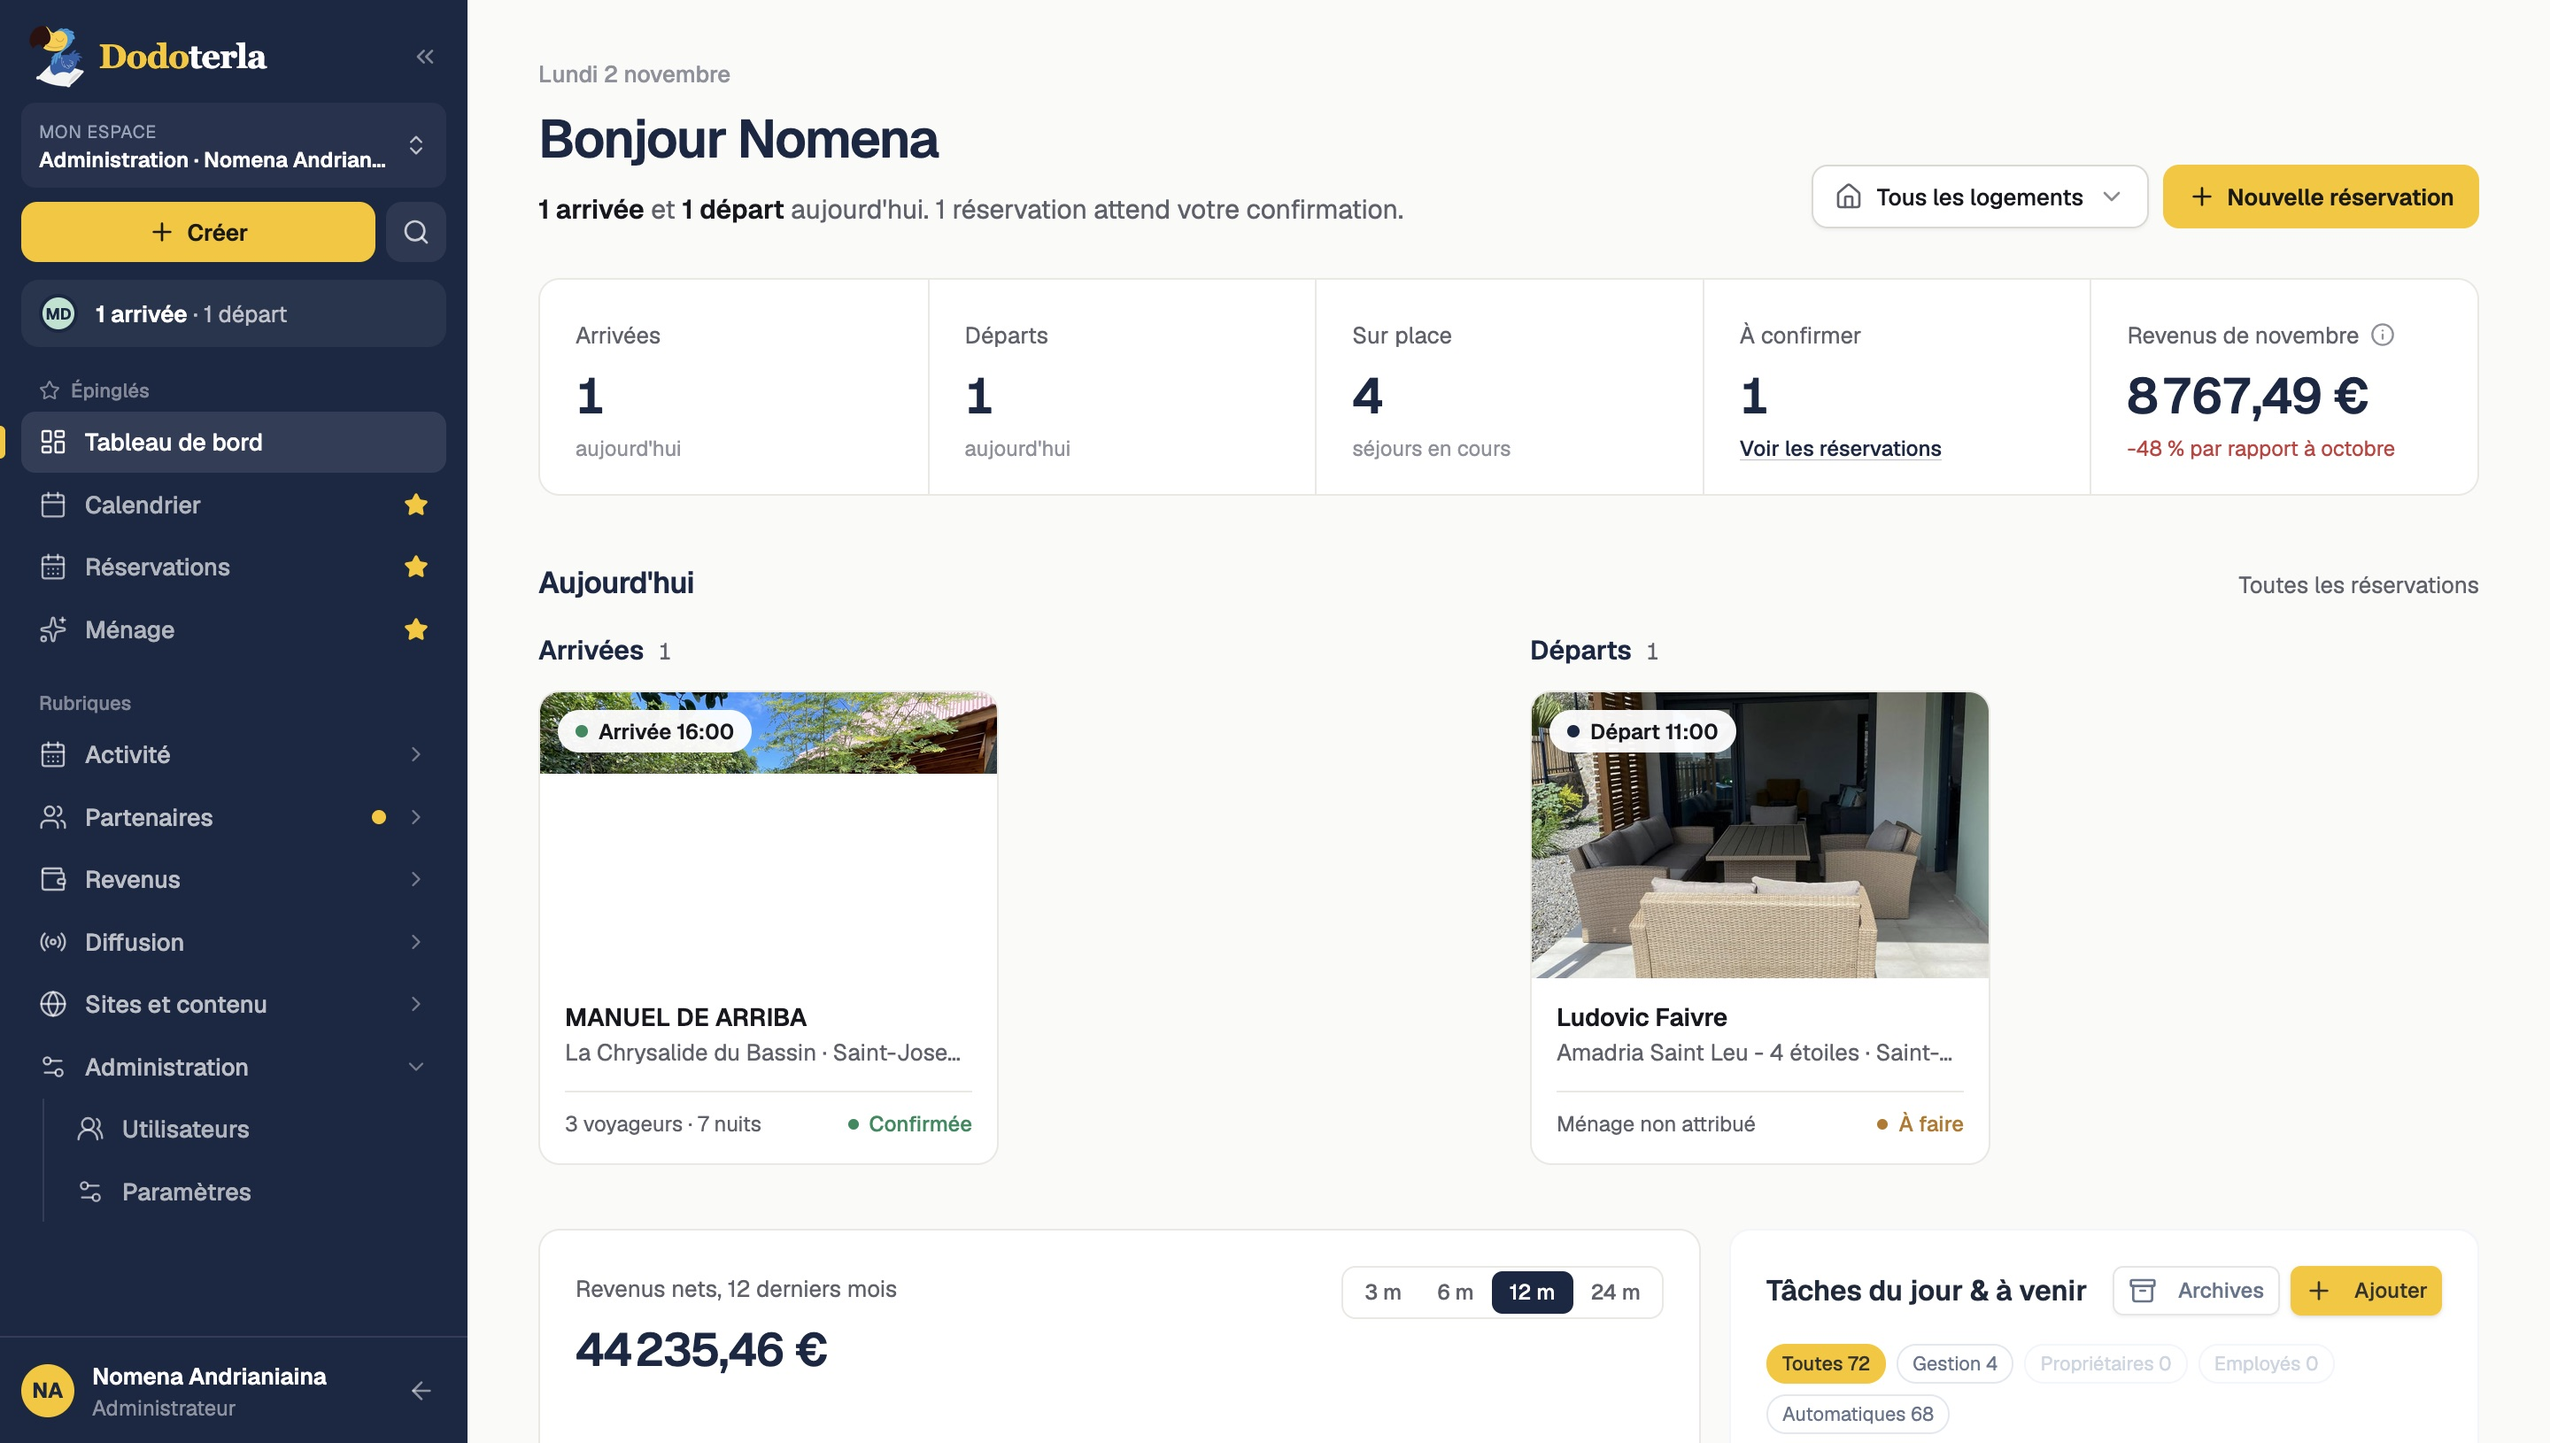
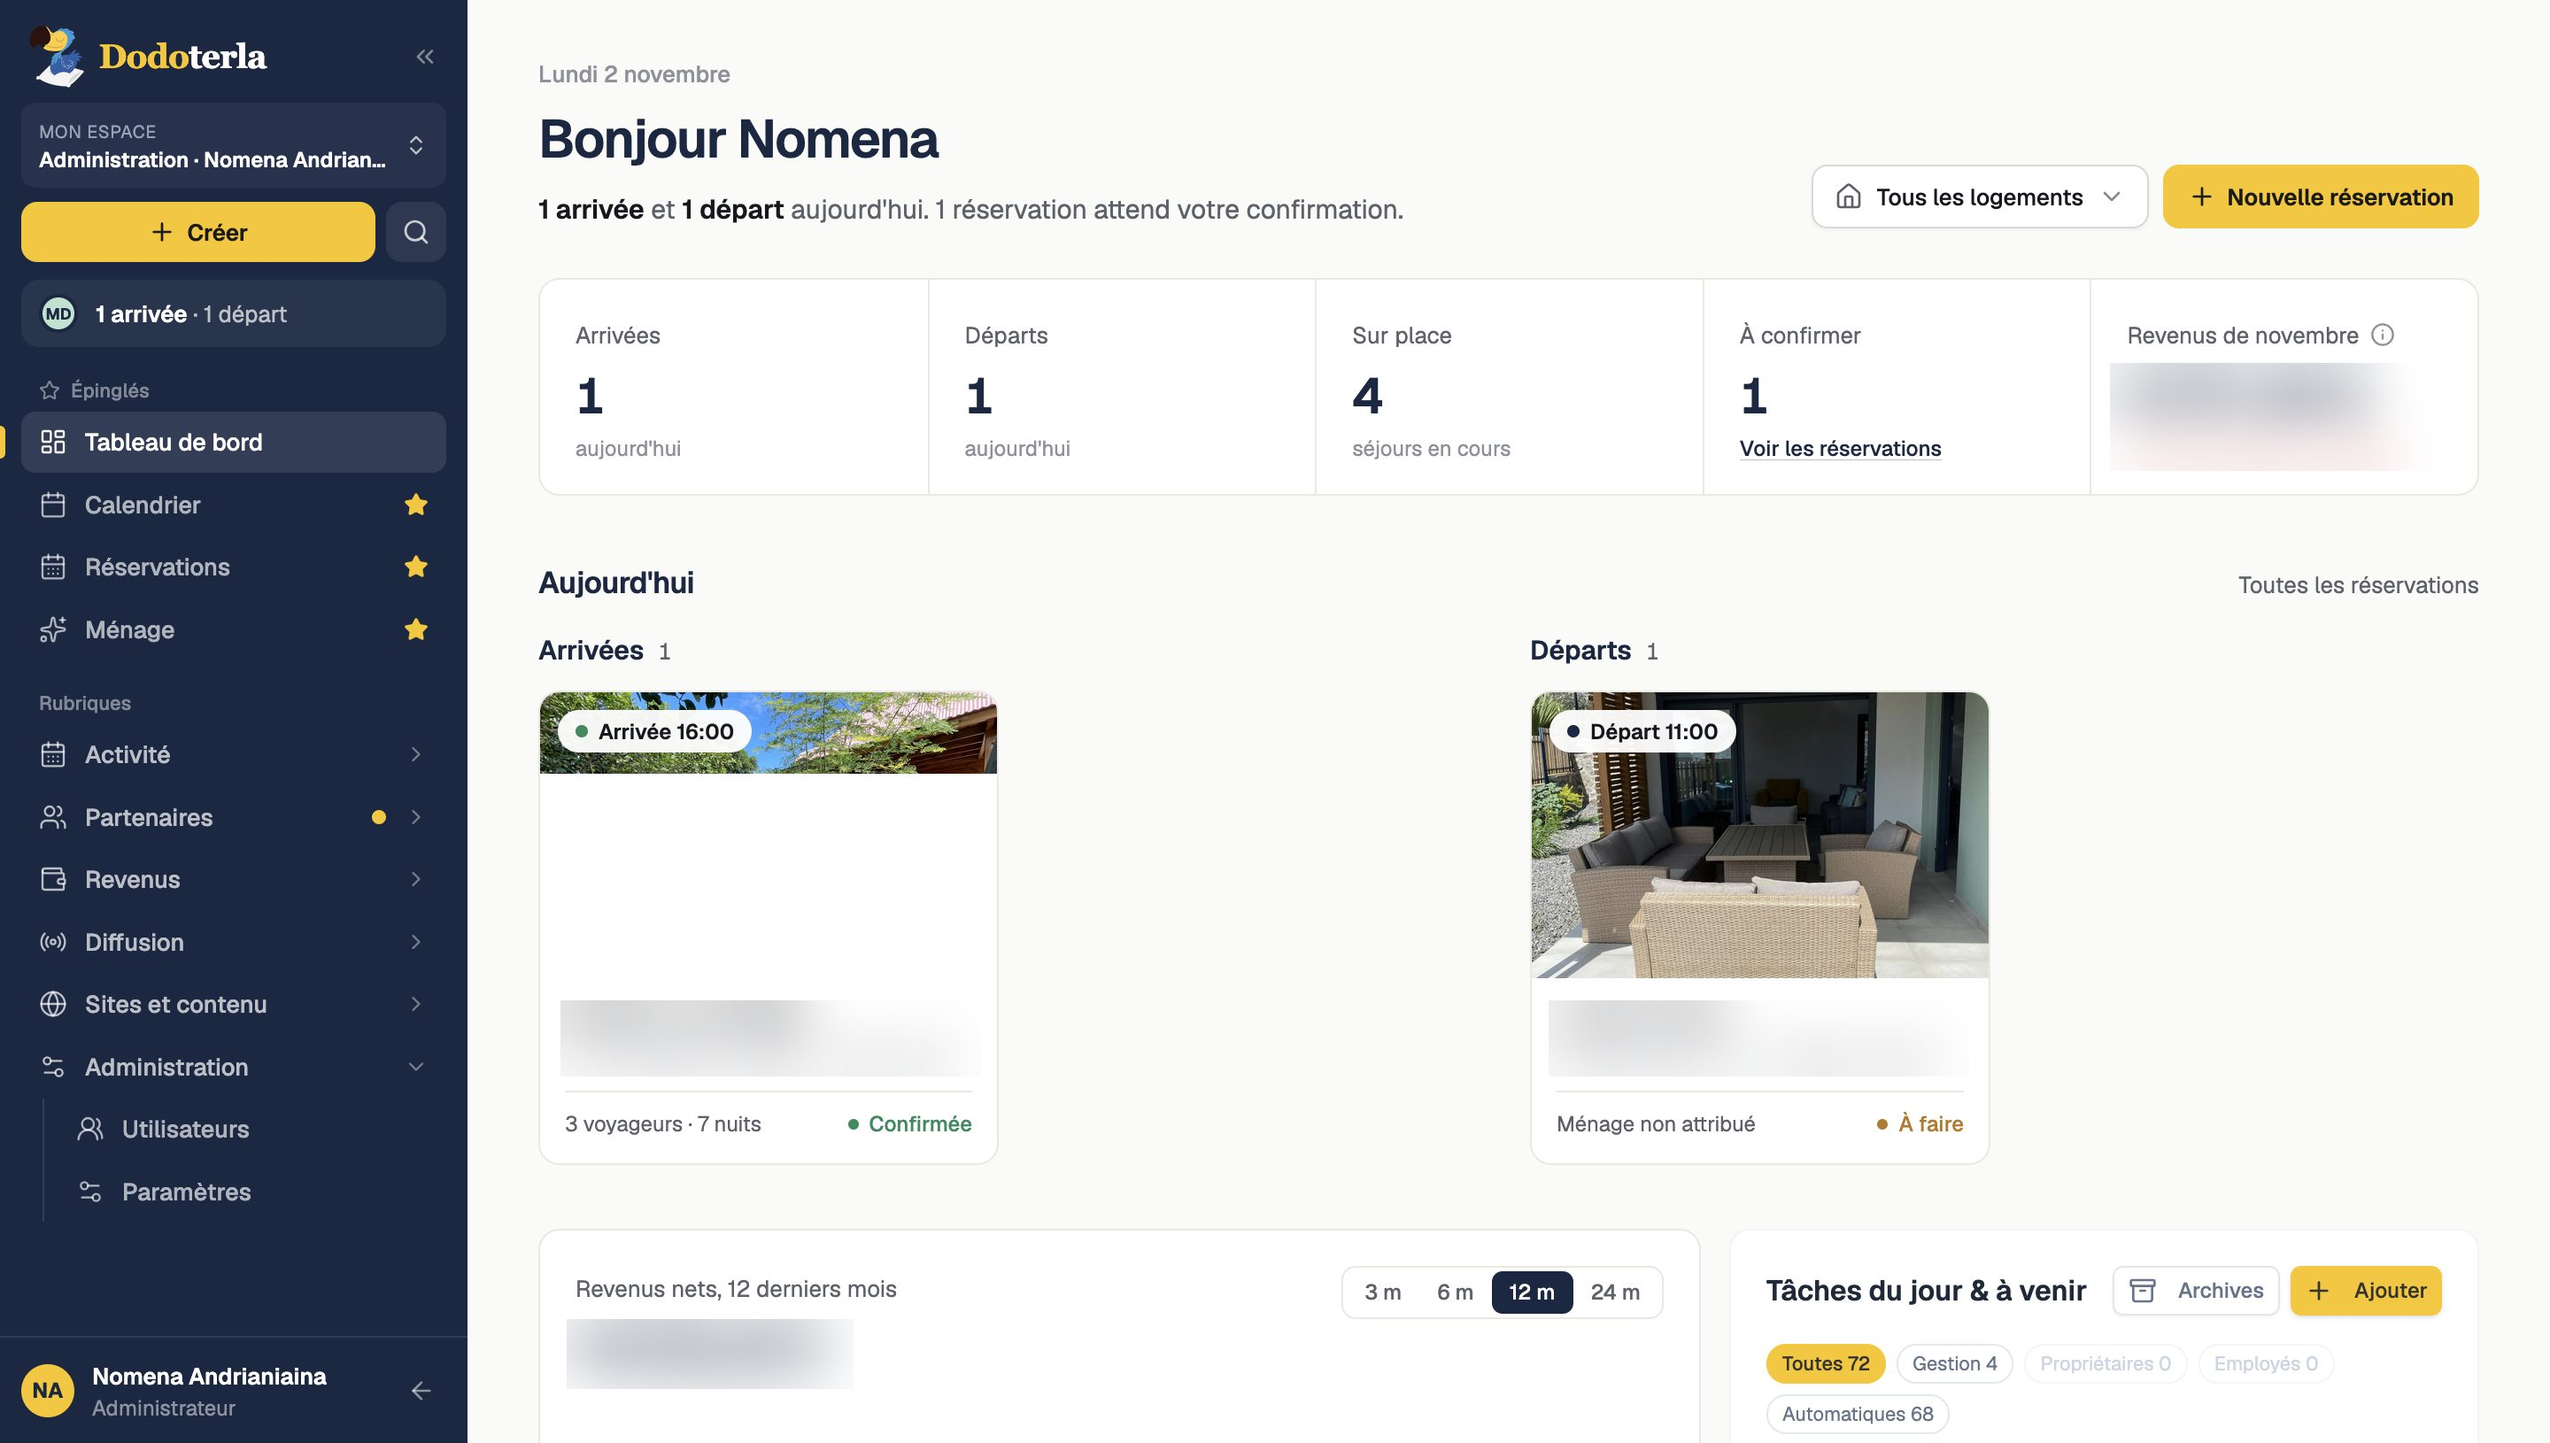
fix(projects): use verified tech stacks and blur client data on Dodoterla

diff --git a/src/app/page.tsx b/src/app/page.tsx
@@ -131,28 +131,28 @@ const PROJECTS: Project[] = [
     title: "Dodoterla",
     cat: "client",
     image: "/projects/dodoterla.jpg",
-    tags: ["Next.js", "TypeScript", "Node.js", "PostgreSQL"],
+    tags: ["React", "Node.js", "Stripe", "Vercel"],
     demoLink: "https://www.dodoterla.re",
   },
   {
     title: "MyAlfa",
     cat: "client",
     image: "/projects/myalfa.jpg",
-    tags: ["Next.js", "TypeScript", "Node.js", "PostgreSQL"],
+    tags: ["Next.js", "React", "Vercel"],
     demoLink: "https://www.myalfa.app/",
   },
   {
     title: "TransacTPE",
     cat: "client",
     image: "/projects/transactpe.jpg",
-    tags: ["Next.js", "TypeScript", "Node.js", "PostgreSQL"],
+    tags: ["React", "Radix UI", "Node.js", "Express.js"],
     demoLink: "https://e-deal.app/",
   },
   {
     title: "Idyll Immo",
     cat: "client",
     image: "/projects/idyllimmo.jpg",
-    tags: ["Next.js", "TypeScript", "Node.js", "PostgreSQL"],
+    tags: ["React", "Redux", "Recharts", "Express.js", "Stripe"],
     demoLink: "https://www.idyllimmo.com/",
   },
   {
